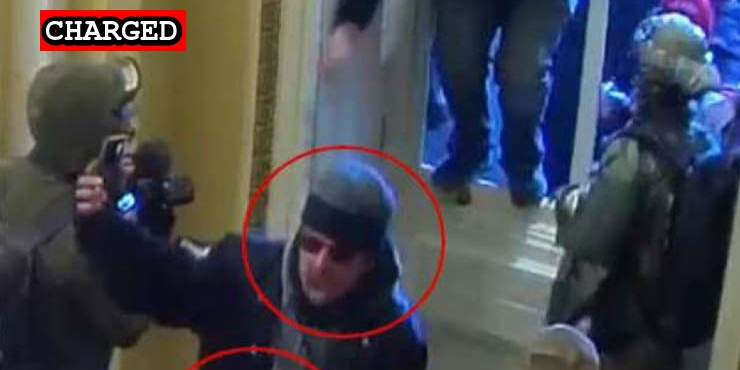
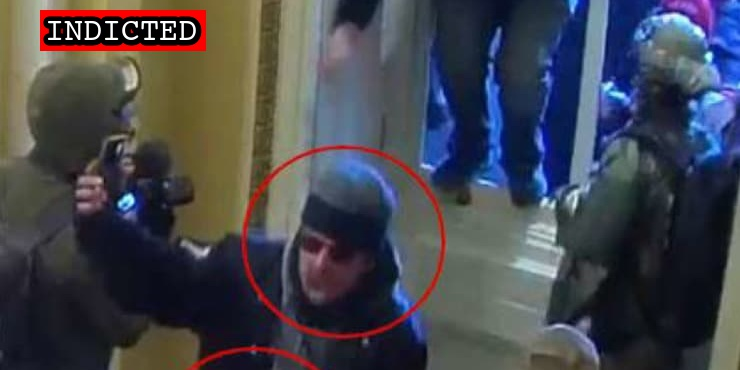
New indictment

Changed region(s): [[0.0311, 0.0, 0.2797, 0.1486]]

diff --git a/docs/_suspects/philip-grillo.md b/docs/_suspects/philip-grillo.md
@@ -7,10 +7,10 @@ residence: New York
 status: Charged
 date: 2021-02-21
 charged: 2021-02-21
-indicted:
-convicted: 
-sentenced: 
-dismissed: 
+indicted: 2021-11-19
+convicted:
+sentenced:
+dismissed:
 deceased:
 plea_hearing:
 sentencing:
@@ -36,5 +36,7 @@ videos:
 charges:
 sentence:
 ---
+
 - [News Report](https://queenseagle.com/all/queens-gop-district-leader-arrested-for-role-in-capitol-insurrection)
 - [Statement of Facts](https://www.justice.gov/usao-dc/case-multi-defendant/file/1371396/download)
+- [Indictment](https://storage.courtlistener.com/recap/gov.uscourts.dcd.237757/gov.uscourts.dcd.237757.27.0.pdf)
